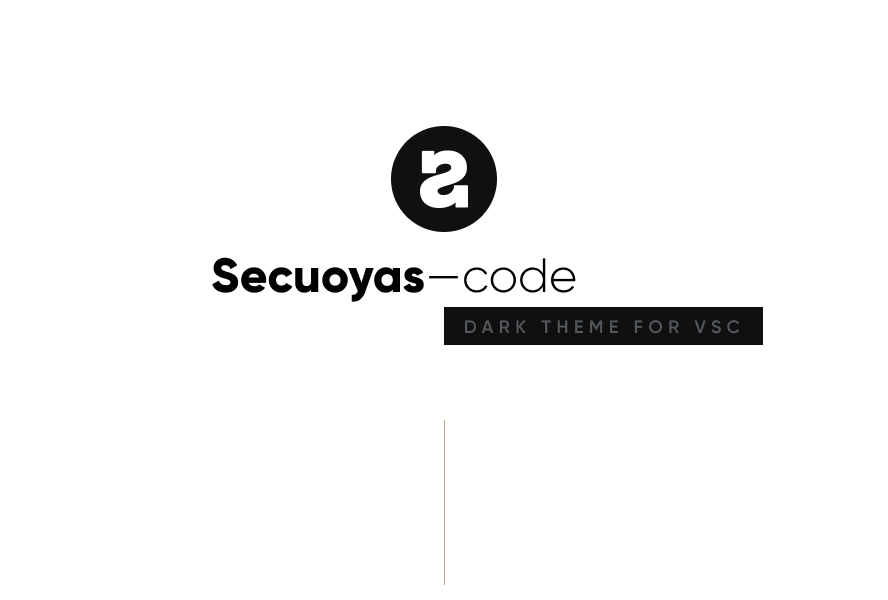
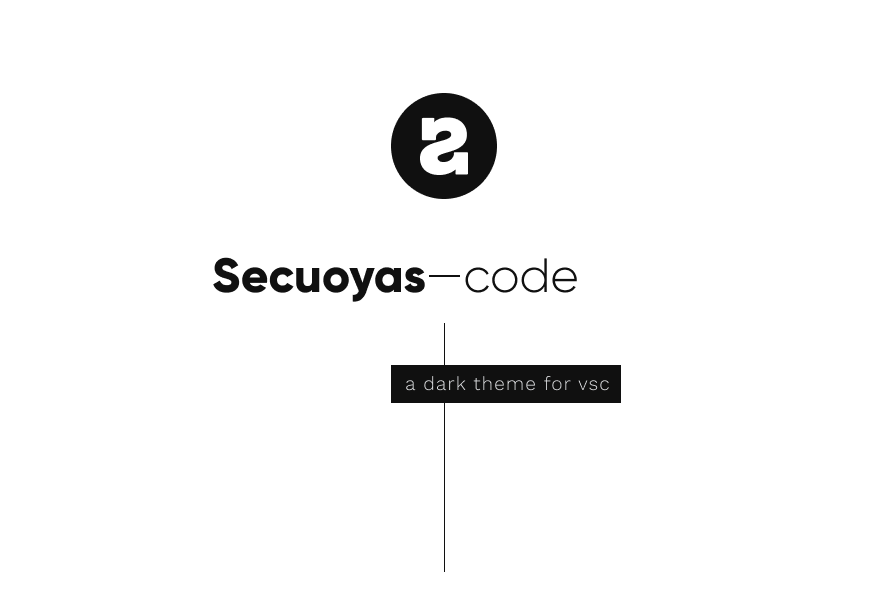
add hero for github

Changed region(s): [[0.2432, 0.42, 0.8818, 0.69], [0.4257, 0.15, 0.5777, 0.39]]

diff --git a/README.md b/README.md
@@ -1,4 +1,6 @@
 
+<a href="https://secuoyas.com"><img src="https://brand.secuoyas.com/img/repository-hero.png" title="theme-repository-hero" alt="Secuoyas"></a>
+
 ![header](/assets/repository-hero.jpg)
 
 # Secuoyas Code
